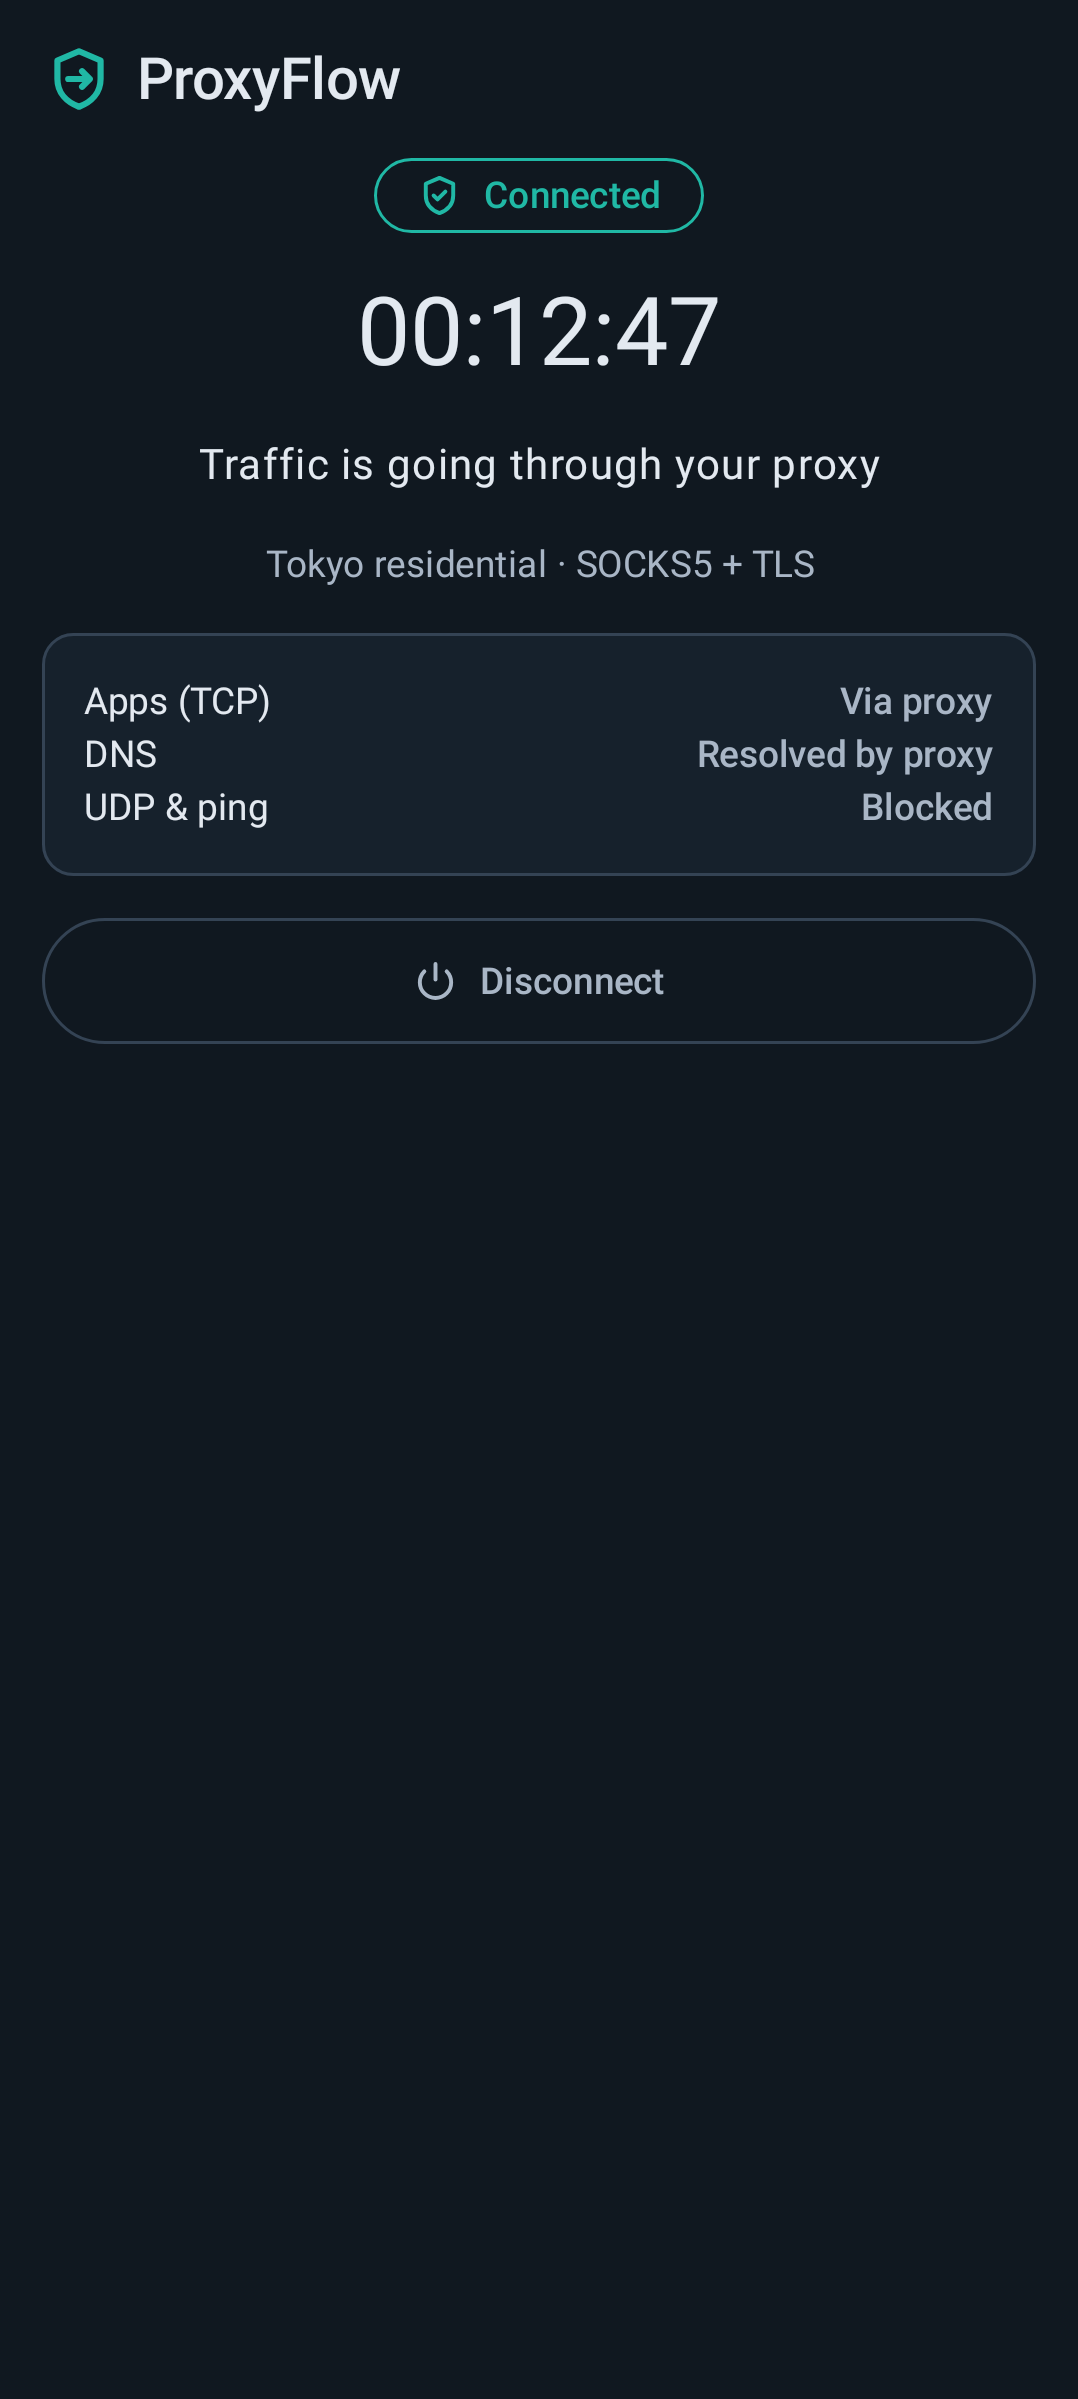
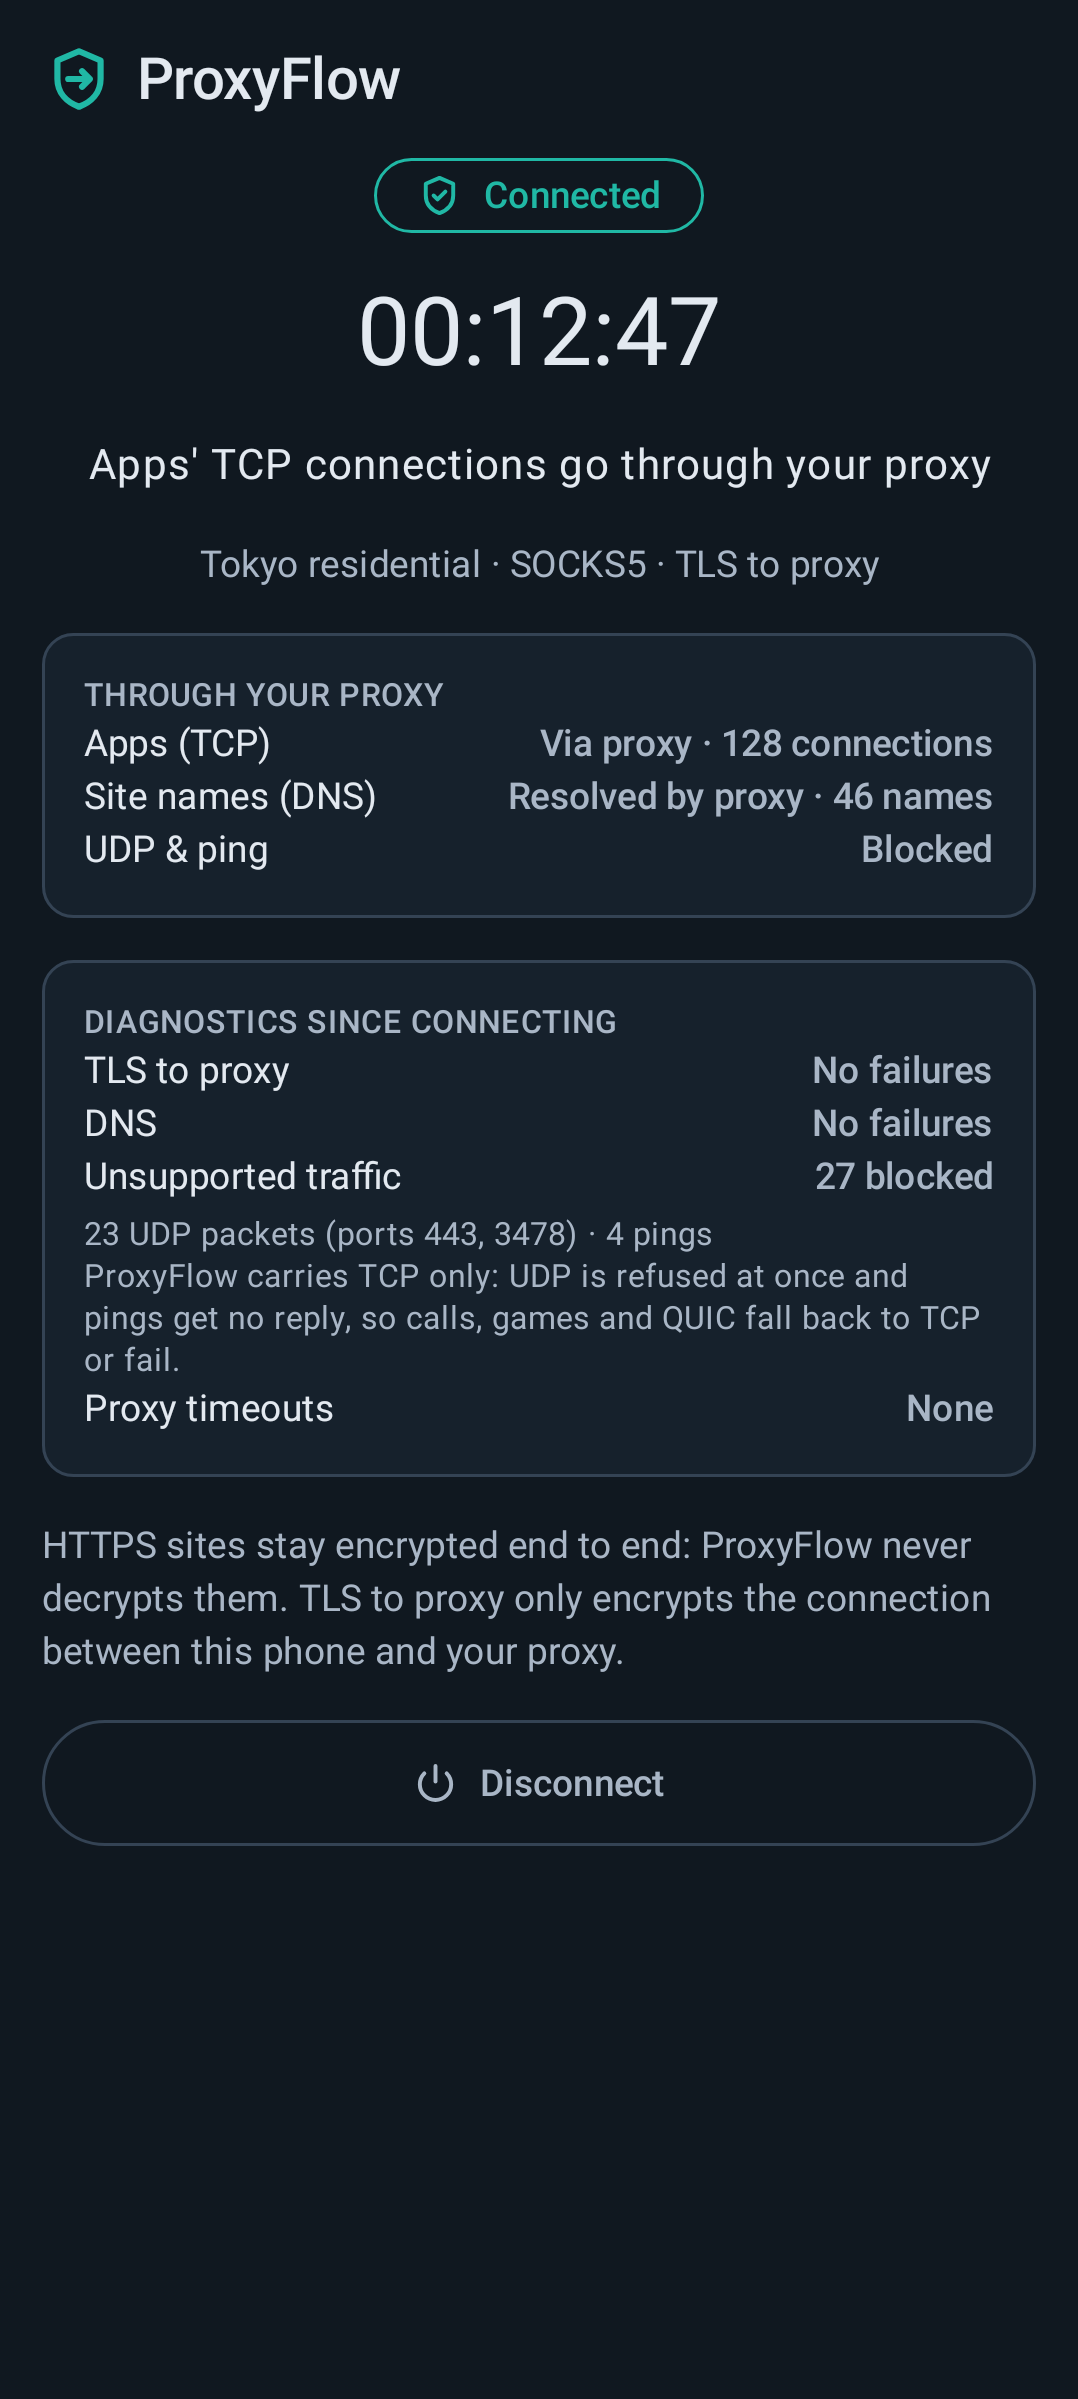
M6: one blocked UDP port in the singular; evidence needs TLS through the gate
- Home: "5 UDP packets (port 443)", not "ports 443" (a plural on the number
  of ports), with a test.
- m6_evidence.py: zero connections from the gate to a TLS front is now a
  problem, not a vacuous "every one opened with a TLS record": the
  certificate-change test must have run for its retries to count.
- B4 healthy-session screenshots recorded in CI for f4bbdff, reviewed and
  taken; the session-with-problems capture changes again with the singular.

Claude-Session: https://claude.ai/code/session_01BBXXsUMxCVrJYrWf3v1XwS

diff --git a/feature/home/src/main/kotlin/app/proxyflow/feature/home/HomeScreen.kt b/feature/home/src/main/kotlin/app/proxyflow/feature/home/HomeScreen.kt
@@ -562,7 +562,7 @@ private fun DiagnosticsCard(profile: ProxyProfile, diagnostics: RoutingDiagnosti
             },
             detail = unsupported?.takeIf { blocked != null && blocked > 0 }?.let {
                 val ports = it.udpTopPorts.takeIf { list -> list.isNotEmpty() }?.joinToString(", ")
-                val portsText = ports?.let { list -> stringResource(R.string.home_diag_udp_ports, list) }
+                val portsText = ports?.let { list -> pluralStringResource(R.plurals.home_diag_udp_ports, it.udpTopPorts.size, list) }
                 val udp = countOrNull(R.plurals.home_diag_udp, it.udpBlocked)?.let { text -> portsText?.let { p -> "$text ($p)" } ?: text }
                 listOfNotNull(udp, countOrNull(R.plurals.home_diag_pings, it.pingsDropped)).joinToString(" · ") + "\n" +
                     stringResource(R.string.home_diag_unsupported_note)

diff --git a/feature/home/src/test/kotlin/app/proxyflow/feature/home/HomeScreenTest.kt b/feature/home/src/test/kotlin/app/proxyflow/feature/home/HomeScreenTest.kt
@@ -129,6 +129,13 @@ class HomeScreenTest {
     }
 
     @Test
+    fun oneBlockedPortIsNamedInTheSingular() {
+        val diagnostics = RoutingDiagnostics(unsupported = UnsupportedTraffic(udpBlocked = 5, udpTopPorts = listOf(443)))
+        show(ready(ConnectionState(ConnectionStatus.Connected, "p1", "Office", connectedSinceMillis = 0), diagnostics = diagnostics))
+        compose.onNodeWithText("5 UDP packets (port 443)", substring = true).performScrollTo().assertIsDisplayed()
+    }
+
+    @Test
     fun tlsFailuresWhileConnectedSayWhichCheckFailed() {
         val tlsProfile = profile.copy(tlsMode = TlsMode.Tls)
         val diagnostics = RoutingDiagnostics(tls = TlsProblems(failures = 2, lastCode = "TLS_UNTRUSTED"))

diff --git a/scripts/m6_evidence.py b/scripts/m6_evidence.py
@@ -335,6 +335,8 @@ def main(argv: list[str]) -> int:
         facts.append(f"gate: {gate_tls} connections to a TLS front, every one opening with a TLS record")
     if gate_plain:
         problems.append(f"the app sent plaintext to a TLS proxy through the gate: {gate_plain[:3]}")
+    if gate_tls == 0:
+        problems.append("no connection went through the gate to a TLS front: the certificate-change test did not run, so nothing shows its retries stayed TLS")
 
     stunnel = after("stunnel.log")
     accepted = collections.Counter(m.group(1) for line in stunnel if (m := re.search(r"Service \[([\w-]+)\] accepted connection", line)))
